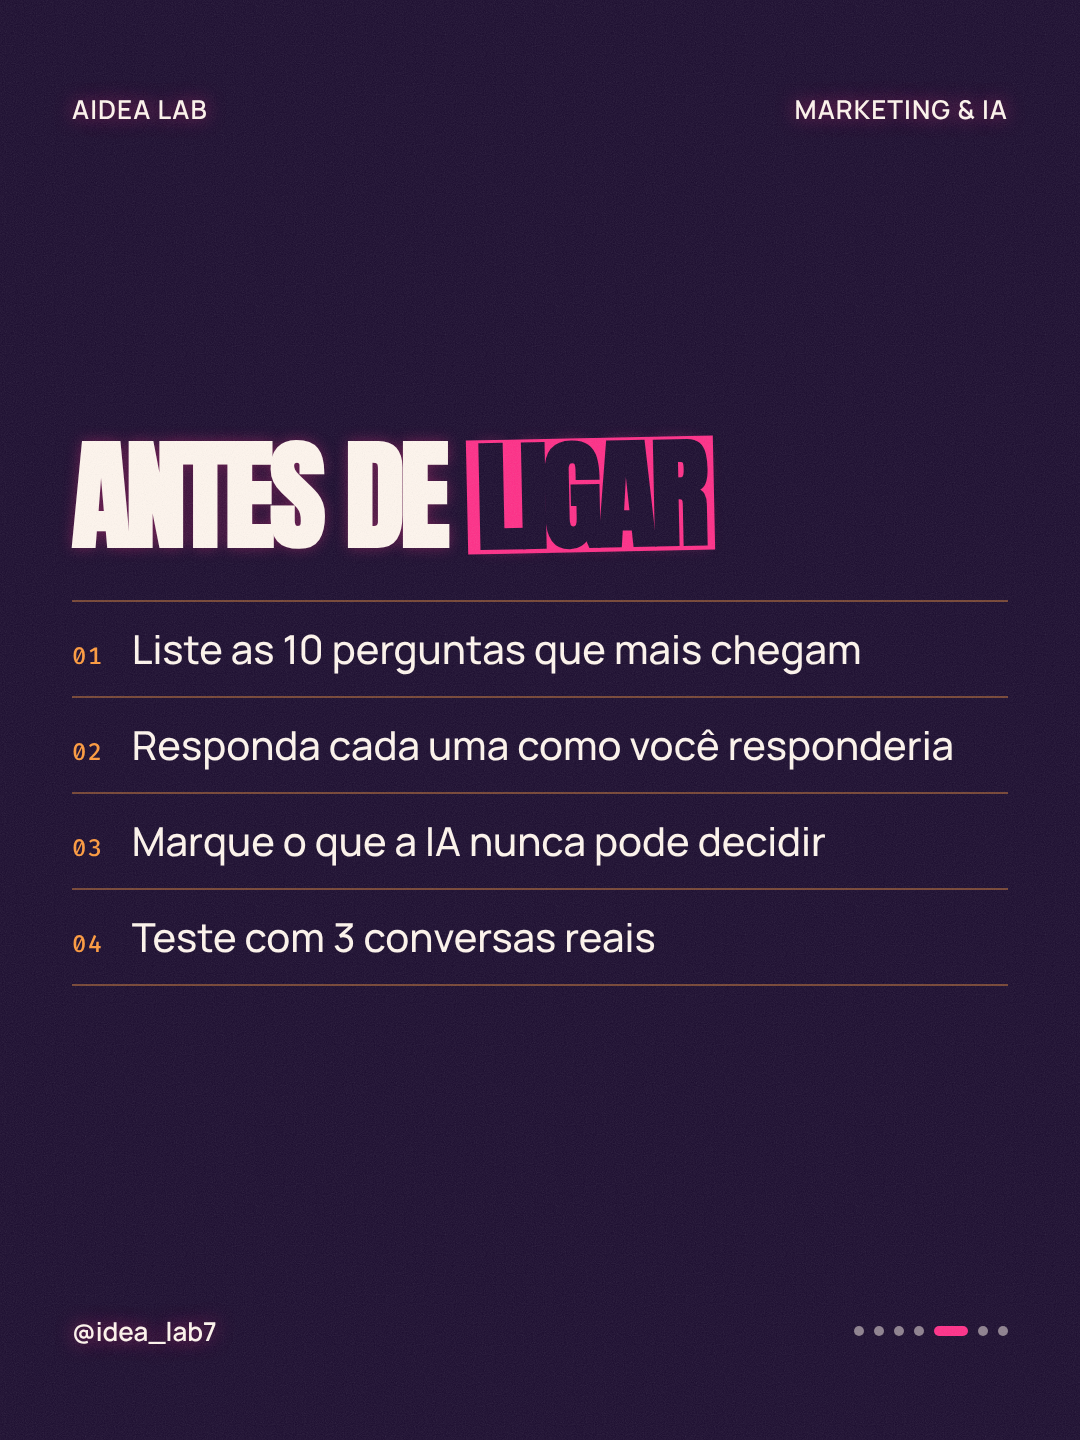
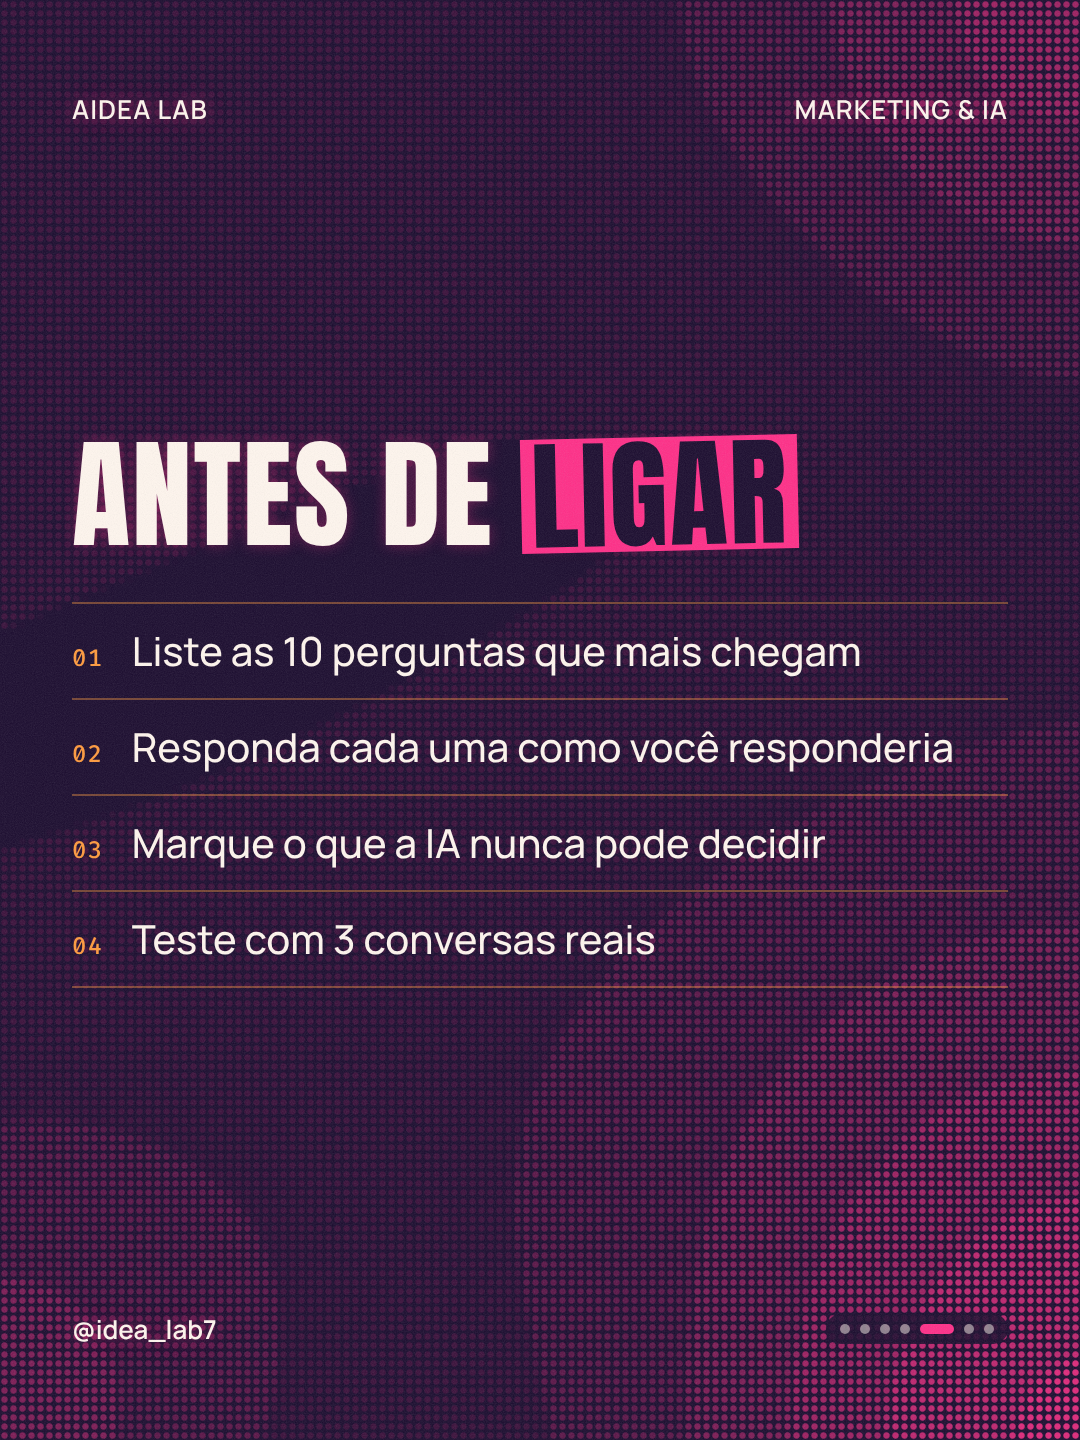
content: whatsapp-oi-23h com texto atrás do sujeito; tema-gta sem negrito sintético; compor --alfa-duro
Claude-Session: https://claude.ai/code/session_017wxwMT1NHwdS8pjbyZHpYe

diff --git a/agente aidealab/clientes/aidealab/design-system/tema-gta/tema.css b/agente aidealab/clientes/aidealab/design-system/tema-gta/tema.css
@@ -47,3 +47,5 @@
 .slide.t1 .display, .slide.t1b .display, .slide.t3 .display, .slide.t4 .display { text-shadow: 0 0 14px rgba(255, 46, 136, .35); }
 /* legibilidade sobre o céu rosa: contorno ink nas linhas sobre foto */
 .slide.t1 .emocao, .slide.t1b .emocao, .slide.t4 .emocao, .slide.com-foto .emocao, .slide.com-foto .display { text-shadow: 0 3px 0 #1A0B2E, 0 0 18px rgba(26, 11, 46, .85); }
+/* Anton só tem peso 400: o 900 do motor virava negrito sintético e as letras se colavam. */
+.dl { font-weight: 400; letter-spacing: .015em; line-height: .98; }

diff --git a/motor/compor.py b/motor/compor.py
@@ -242,6 +242,8 @@ def main():
     ap.add_argument("json", nargs="+", help="um ou mais carrossel.json (compartilham --led e --sem-recorte)")
     ap.add_argument("--led", default="")
     ap.add_argument("--sem-recorte", action="store_true")
+    ap.add_argument("--alfa-duro", action="store_true",
+                    help="binariza o alfa do rembg (ilustração com contorno de tinta: a borda semitransparente vira dura)")
     a = ap.parse_args()
     for j in a.json:
         print(f"== {j}")
@@ -289,6 +291,10 @@ def compor(jp, a):
             rgba = remove(limpa, session=_sessao[0])
             cache.parent.mkdir(exist_ok=True)
             rgba.save(cache)
+        if a.alfa_duro:
+            r_, g_, b_, al = rgba.split()
+            al = al.point(lambda v: 255 if v > 127 else 0).filter(ImageFilter.MaxFilter(3)).filter(ImageFilter.MinFilter(3))
+            rgba = Image.merge("RGBA", (r_, g_, b_, al))
         m_ruim, met = avaliar(rgba, area_max=0.85)
         mask = mascara(rgba)
         recorte = False
